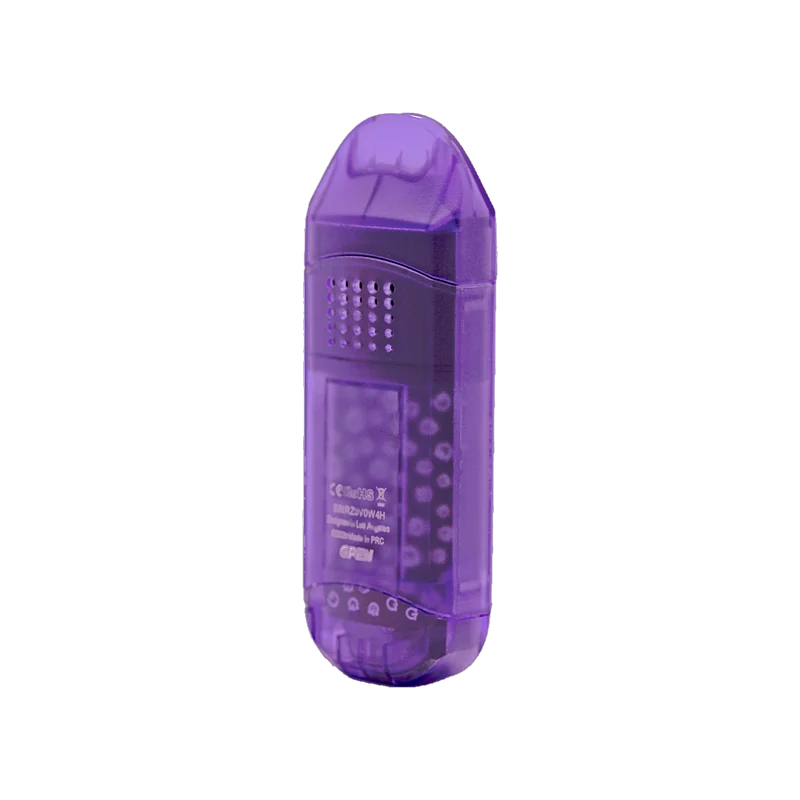
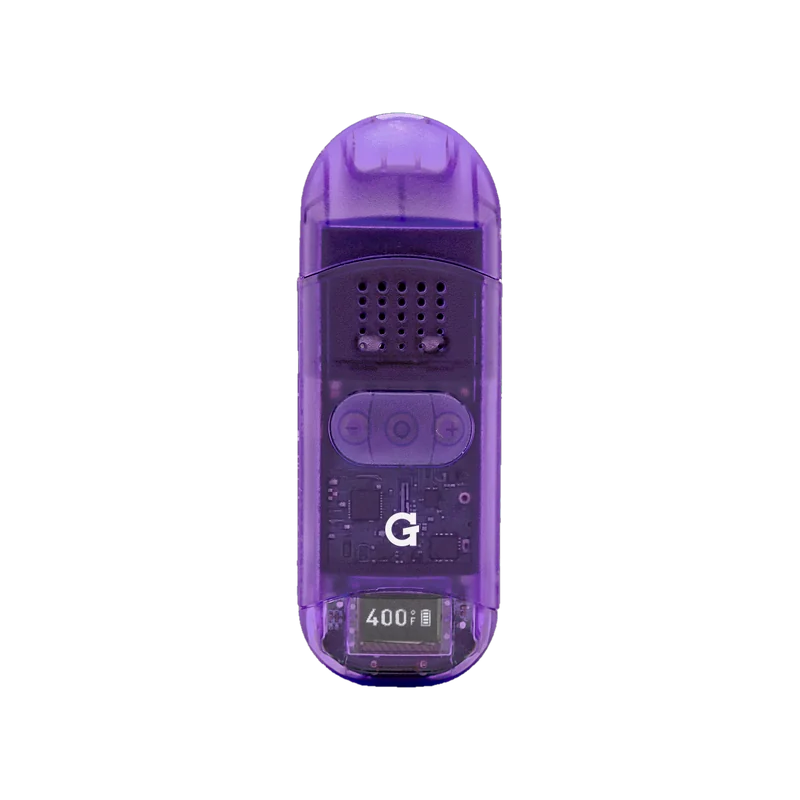
Dash II Retro: sort colorless photos by their colors; Purple front cover
Many lifestyle shots in the shared Dash II - Retro folder name no color, and
several are purple (GPEN - Dash 2-88/89/92/95/96), so "no color = Neon Green"
misfiled them. A color in the filename still decides; other images are sorted
by the share of neon-green vs purple pixels in their thumbnail (group and
black-and-white shots go to both). Videos and documents go to both.

The Purple cover now uses the front shot that has since been uploaded.

Changed region(s): [[0.3438, 0.125, 0.6562, 0.875]]

diff --git a/assets/data/assets.js b/assets/data/assets.js
@@ -117,8 +117,7 @@ window.PORTAL_PRODUCTS = [
   {
     // Dash II Retro Collection colorways (launched 2026-10-28). Both share one Dropbox
     // folder, split by the color in each filename (see dashRetroPick in the sync).
-    // Covers: transparent cutouts of the Dropbox product shots, sized like the Dash II's.
-    // Purple has only back 3/4 shots so far — swap in a front shot when one arrives.
+    // Covers: transparent cutouts of the Dropbox front shots, sized like the Dash II's.
     name: "Dash II — Retro Neon Green", brand: "gpen", category: "Dry Herb", type: "Dry Herb Vaporizer",
     cover: "assets/img/dash-ii-retro-neon-green.webp?v=20261028",
     added: "2026-10-28", newBadge: "green",
@@ -127,7 +126,7 @@ window.PORTAL_PRODUCTS = [
   },
   {
     name: "Dash II — Retro Purple", brand: "gpen", category: "Dry Herb", type: "Dry Herb Vaporizer",
-    cover: "assets/img/dash-ii-retro-purple.webp?v=20261028",
+    cover: "assets/img/dash-ii-retro-purple.webp?v=20261028b",
     added: "2026-10-28", newBadge: "purple",
     oneSheet: "#",
     folders: {},   // real folders + thumbnails come from synced.js (Dropbox sync)
